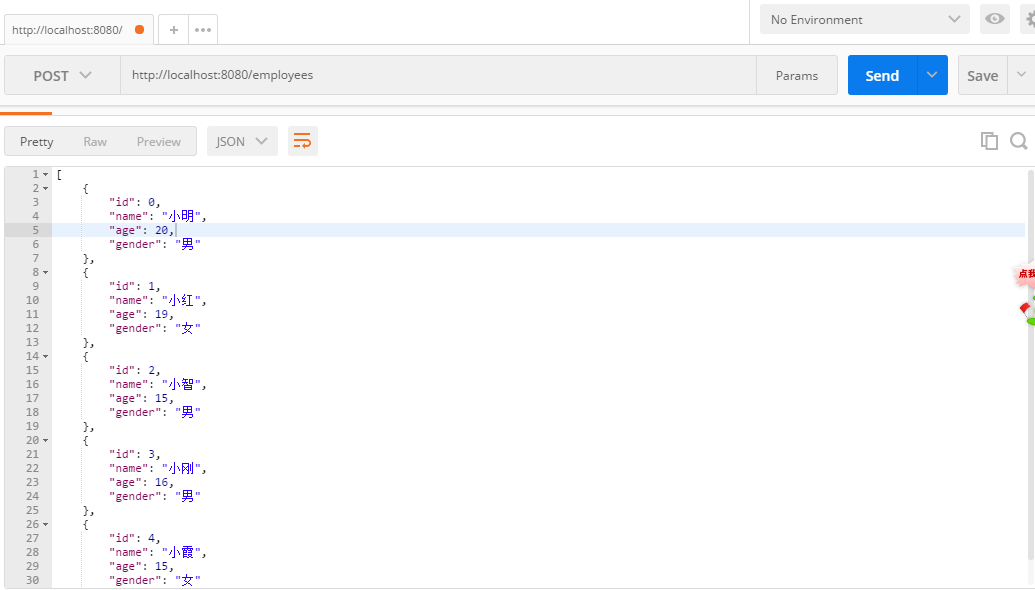
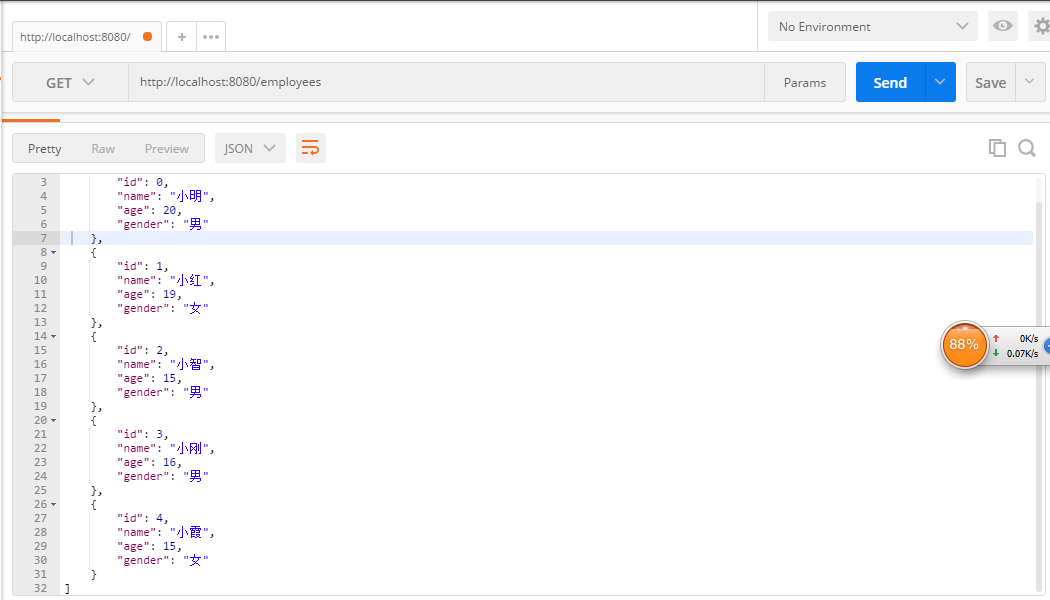
add function addEmployee

Changed region(s): [[0.0, 0.0, 1.0, 1.0], [0.0309, 0.122, 0.0928, 0.1525]]

diff --git a/src/main/java/com/example1/employees/EmployeeController.java b/src/main/java/com/example1/employees/EmployeeController.java
@@ -1,8 +1,7 @@
 package com.example1.employees;
 
 import org.springframework.beans.factory.annotation.Autowired;
-import org.springframework.web.bind.annotation.PostMapping;
-import org.springframework.web.bind.annotation.RestController;
+import org.springframework.web.bind.annotation.*;
 
 import java.util.List;
 
@@ -10,9 +9,19 @@ import java.util.List;
 public class EmployeeController {
     @Autowired
     private EmployeeRepository employeeRepository;
-    @PostMapping(value = "/employees")
+    @GetMapping(value = "/employees")
     public List<Employee> getAllEmployee() {
         return employeeRepository.findAll();
     }
+
+    @PostMapping(value = "/addEmployee")
+    public void addEmployee(@RequestParam String name,@RequestParam int age,@RequestParam String gender) {
+          Employee newEmployee= new Employee();
+          newEmployee.setName(name);
+          newEmployee.setAge(age);
+          newEmployee.setGender(gender);
+          employeeRepository.save(newEmployee);
+    }
+    
 
 }
